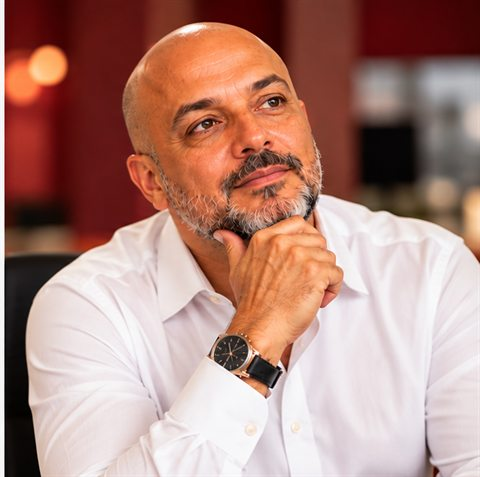
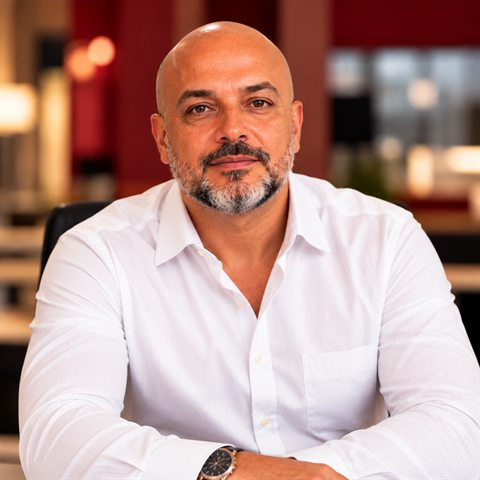
DISC Pessoal: nova foto do cartão de liderança

diff --git a/lp-disc.html b/lp-disc.html
@@ -239,7 +239,7 @@ details p{padding:0 0 16px;color:var(--cinza);font-size:15px}
             'Saiba o que motiva e o que desgasta cada perfil da sua equipe']]
         ].map(function (u) {
           return '<div class="uso" style="--cor:' + u[3] + '">' +
-            '<div class="uso-foto" style="background:' + u[3] + '"><img src="/img/disc/uso-' + u[2] + '.jpg?v=2" alt="' + u[0] + '" loading="lazy"></div>' +
+            '<div class="uso-foto" style="background:' + u[3] + '"><img src="/img/disc/uso-' + u[2] + '.jpg?v=3" alt="' + u[0] + '" loading="lazy"></div>' +
             '<div class="rot" style="color:' + u[3] + '">' + u[0] + '</div>' +
             '<h3>' + u[1] + '</h3>' +
             '<ul>' + u[4].map(function (b) { return '<li>' + b + '</li>'; }).join('') + '</ul>' +
